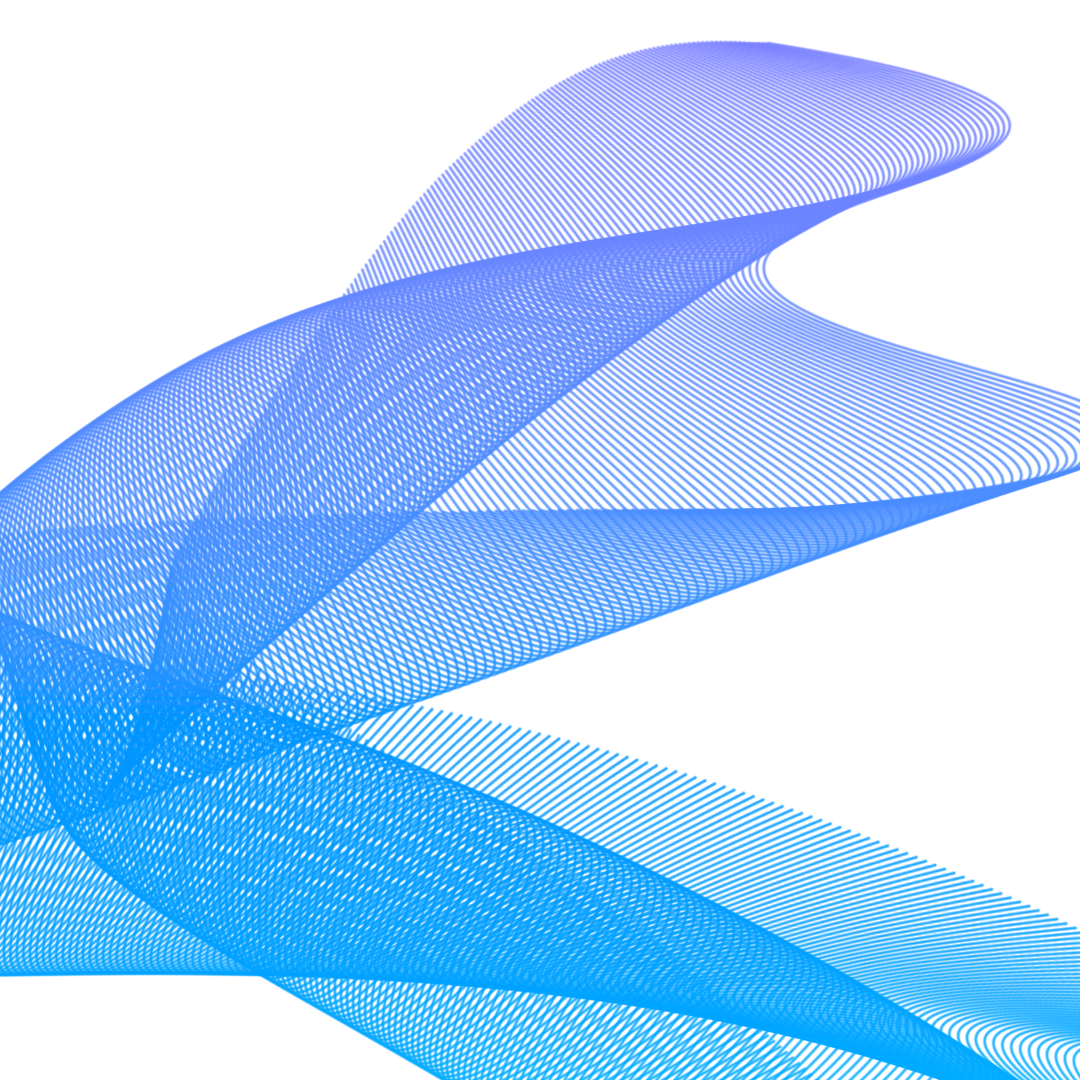
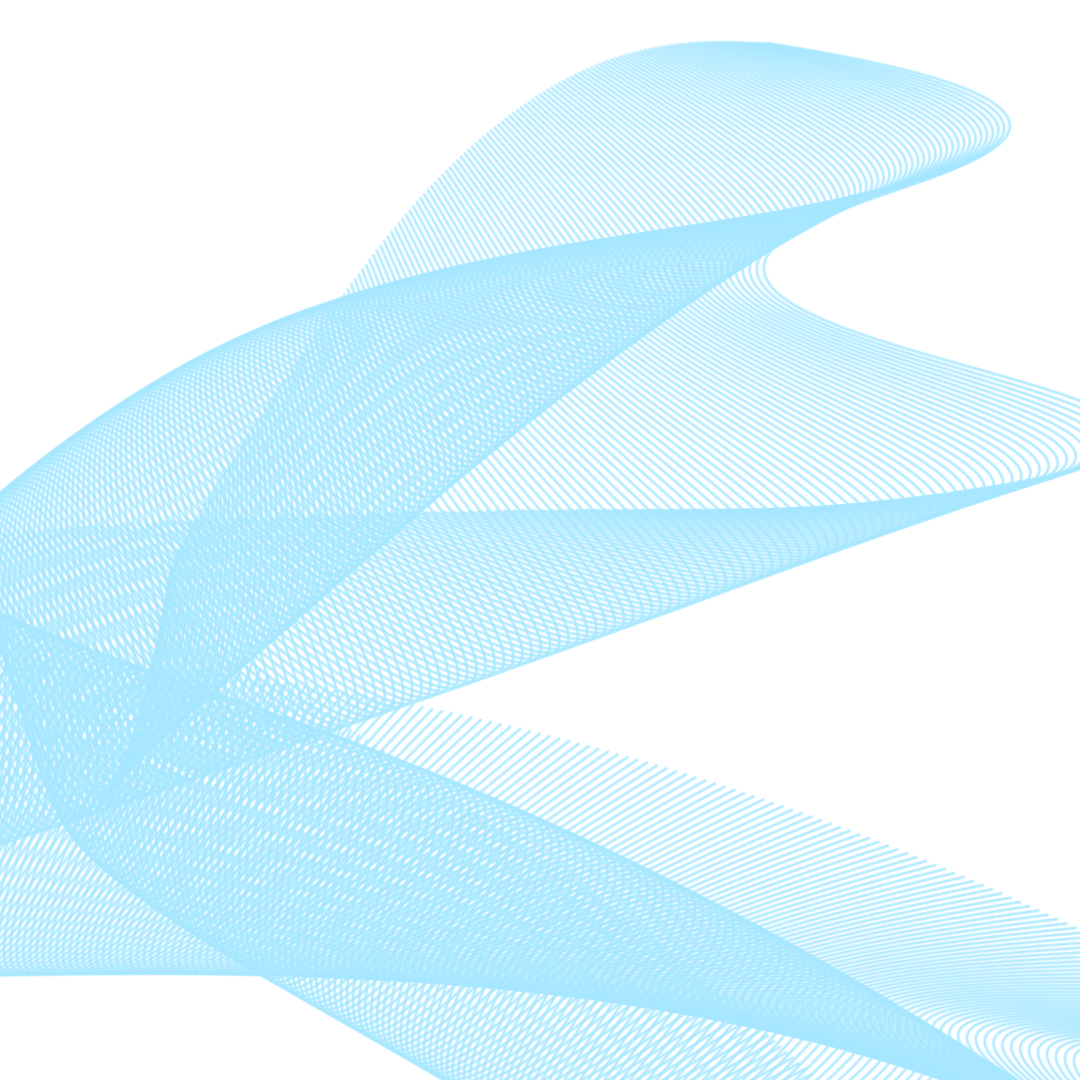
update home

diff --git a/portfolio/src/pages/home/Home.tsx b/portfolio/src/pages/home/Home.tsx
@@ -1,15 +1,14 @@
 import Grid from "@mui/material/Grid";
-import Card from "@mui/material/Card";
 import React from "react";
 import CardContent from "@mui/material/CardContent";
 import Typography from "@mui/material/Typography";
-import Box from "@mui/material/Box";
 import "../../styles/styles.css";
 import Footer from "../../components/Footer";
-import Tooltip from "@mui/material/Tooltip";
-import IconButton from "@mui/material/IconButton";
-import InfoIcon from "@mui/icons-material/Info";
 import Nome from "../../components/Nome";
+import Box from "@mui/material/Box";
+import Card from "@mui/material/Card";
+import Tooltip from "@mui/material/Tooltip";
+
 
 export default function Home() {
   // TODO  Integrar com API https://api.adviceslip.com/advice
@@ -18,19 +17,19 @@ export default function Home() {
   const cardMotivational = (
     <React.Fragment>
       <CardContent>
-        <Typography
-          variant="h5"
-          component="div"
-          textTransform={"uppercase"}
-          color="var(--fontcolorlight)"
-          textAlign={"center"}
-          gutterBottom
-        >
-          Conselho do dia
-        </Typography>
 
         <Typography sx={{ fontSize: 16 }} color="text.secondary" gutterBottom>
           {conselhoDoDia}
+        </Typography>
+      <Typography
+          variant="h6"
+          component="div"
+          textTransform={"uppercase"}
+          color="var(--light3)"
+          textAlign={"center"}
+          gutterBottom
+        >
+          API MOTIVACIONAL
         </Typography>
       </CardContent>
     </React.Fragment>
@@ -41,22 +40,14 @@ export default function Home() {
       <Nome></Nome>
 
       {/* CONSELHOS MOTIVACIONAIS */}
-      {/* <Grid xs={12} md={6}>
-        <Box
-          sx={{
-            backgroundColor: "#ffffff1c",
-          }}
-        >
-          <Card>
-            <Tooltip title="Saiba mais">
-              <IconButton>
-                <InfoIcon />
-              </IconButton>
-            </Tooltip>
+      <Grid item xs={12} md={6}>
+        <Box>       
+          <Card className="cardMotivational">
+
             {cardMotivational}
           </Card>
         </Box>
-      </Grid> */}
+      </Grid>
 
       
 

diff --git a/portfolio/src/App.tsx b/portfolio/src/App.tsx
@@ -9,7 +9,7 @@ import "./styles/styles.css";
 const router = createBrowserRouter([
   {
     path: "/",
-    element: <></>,
+    element: <div>Hello world!</div>,
   },
 ]);
 function App() {
@@ -24,23 +24,23 @@ function App() {
             
         }}
       >
-        <Box className="waves"> </Box>
-        <Header></Header>
-        
-        <Grid xs={6}  justifyContent="space-evenly"></Grid>
-
-        <Grid xs={6} alignSelf={"right"}>
-          
+        <Box className="waves">
+        <Header></Header> 
         
         
-
+        
+        
+        
+        <Grid item xs={4} alignSelf={"right"}></Grid>
+        <Grid item xs={6}></Grid>
+        <Grid item xs={4}></Grid>
+        
+        
         <BrowserRouter>
           <AppRoutes />
         </BrowserRouter>
+        </Box>
 
-        </Grid>
-        
-       
       </Box>
     </Grid>
   );

diff --git a/portfolio/src/components/empresas.css b/portfolio/src/components/empresas.css
@@ -8,7 +8,7 @@
 }
 
 .einstein{
-    background-image: url("../assets/empresas/Hosp-Albert-Einstein-Logo.jpg");
+    background-image: url("../assets/empresas/einstein.png");
     background-repeat: no-repeat;
     background-position: center;
     background-size: contain;
@@ -17,7 +17,7 @@
 }
 
 .fpb{
-    background-image: url("../assets/empresas/placeholder-fpb.jpg");
+    background-image: url("../assets/empresas/esfera.png");
     background-repeat: no-repeat;
     background-position: center;
     background-size: contain;
@@ -26,7 +26,7 @@
 }
 
 .esfera{
-    background-image: url("../assets/empresas/Hosp-Albert-Einstein-Logo.jpg");
+    background-image: url("../assets/empresas/safra.png");
     background-repeat: no-repeat;
     background-position: center;
     background-size: contain;

diff --git a/portfolio/src/components/CustomSlideEmpresas.tsx b/portfolio/src/components/CustomSlideEmpresas.tsx
@@ -31,13 +31,13 @@ export default function CustomSlideEmpresas() {
             border: "1px solid black",
           }}
         >
-          <Grid xs={6} sm={4} md={2} className="safra">     
+          <Grid item xs={6} sm={4} md={2} className="safra">     
           </Grid>
-          <Grid xs={6} sm={4} md={2} className="einstein">
+          <Grid item xs={6} sm={4} md={2} className="einstein">
           </Grid>
-          <Grid xs={6} sm={4} md={2} className="fpb">
+          <Grid item xs={6} sm={4} md={2} className="fpb">
           </Grid>
-          <Grid xs={6} sm={4} md={2} className="esfera">
+          <Grid item xs={6} sm={4} md={2} className="esfera">
           </Grid>
         </Container>
       </Box>

diff --git a/portfolio/src/styles/styles.css b/portfolio/src/styles/styles.css
@@ -44,17 +44,20 @@
 }
 
 .waves {
-  flex-grow: "1";
-  opacity: 0.4;
   height: 100%;
   width: 100vw;
-  position: absolute;
-  background-image: url("../assets/bg-absolut.png");
+  position: fixed;
+  background-image: url("../assets/bg-absolut-2.png");
   background-repeat: no-repeat;
   background-size: contain;
   background-position: right;
   z-index: 1;
 
+}
+
+.cardMotivational {
+  width: auto;
+  background: #38262600 !important;
 }
 
 
